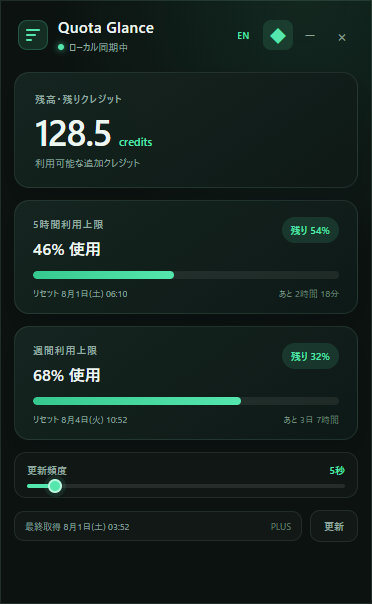
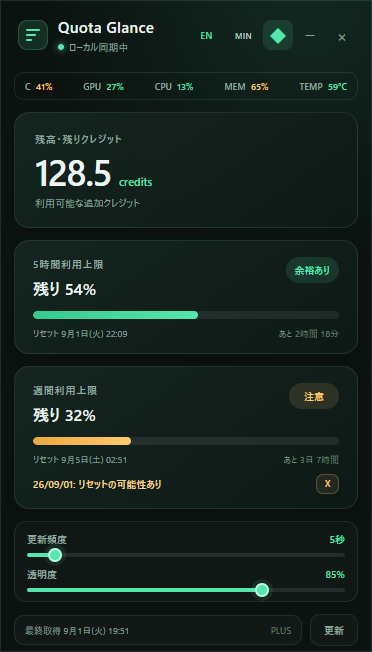
chore: announce Quota Glance 1.4.3

diff --git a/source/quota-glance.html b/source/quota-glance.html
@@ -106,6 +106,7 @@
                     <li style="margin-bottom: 0.5rem;"><strong>リアルタイム更新</strong>: 更新頻度を1〜60秒のスライダーで変更でき、設定を端末内に保存。</li>
                     <li style="margin-bottom: 0.5rem;"><strong>日本語・英語</strong>: ワンクリックで切り替え、選択内容を端末内に保存。</li>
                     <li style="margin-bottom: 0.5rem;"><strong>タスクトレイ常駐</strong>: 使用率に応じたインジケータと、クリックによる再表示に対応。</li>
+                    <li style="margin-bottom: 0.5rem;"><strong>リセット可能性の通知</strong>: OpenAI関連の公開告知を補助的に表示。直近3日以内の告知がある場合だけ表示し、週間枠が100%に戻った時点、または48時間変化がない場合に自動で非表示。</li>
                     <li style="margin-bottom: 0.5rem;"><strong>ローカル完結</strong>: 広告、テレメトリー、アクセス解析、外部へのデータ送信なし。</li>
                 </ul>
 
@@ -120,7 +121,7 @@
                 </ol>
 
                 <h3 style="color: var(--accent); margin-top: 2rem; margin-bottom: 0.5rem; font-size: 1.2rem;">データについて</h3>
-                <p style="color: var(--text-secondary);">Quota GlanceはCodexの認証トークンやAPIキーを読みません。端末内のCodexセッションから利用状況に関する情報だけを読み取り、画面へ表示します。公式APIへ独自に問い合わせるアプリではないため、表示はCodexが最後にローカルへ記録した時点の情報です。</p>
+                <p style="color: var(--text-secondary);">Quota GlanceはCodexの認証トークンやAPIキーを読みません。端末内のCodexセッションから利用状況に関する情報だけを読み取り、画面へ表示します。公式APIへ独自に問い合わせるアプリではないため、表示はCodexが最後にローカルへ記録した時点の情報です。リセット可能性の通知では公開JSONフィードだけを定期取得し、認証情報・セッション内容・利用量を送信することはありません。</p>
 
                 <h3 style="color: var(--accent); margin-top: 2rem; margin-bottom: 0.5rem; font-size: 1.2rem;">動作環境</h3>
                 <p style="color: var(--text-secondary);">Windows 10 / 11（64bit）。CodexデスクトップアプリまたはCodex CLIを利用し、ローカルセッションが保存されている環境。</p>

diff --git a/source/index.html b/source/index.html
@@ -305,6 +305,10 @@
                 <h2 class="section-title">WHAT'S NEW</h2>
                 <div class="update-list" style="max-width: 800px; margin: 0 auto;">
                     <div class="update-item fade-in-up">
+                        <span class="update-date">2026.09.01</span>
+                        <p class="update-content">Quota Glanceに、公開告知を補助的に表示する「リセット可能性の通知」を追加しました。直近3日以内の対象告知がある場合だけ表示し、週間枠が100%へ戻った時点、または48時間変化がない場合に自動で非表示になります。</p>
+                    </div>
+                    <div class="update-item fade-in-up">
                         <span class="update-date">2026.08.17</span>
                         <p class="update-content">Component Vault 1.0.11 を公開しました。インストール済みアプリでサイドバー左上のアプリアイコンが読み込まれない問題を修正し、Monaco エディタのスクロールバーハンドルを高コントラスト表示に改善しました。</p>
                     </div>
